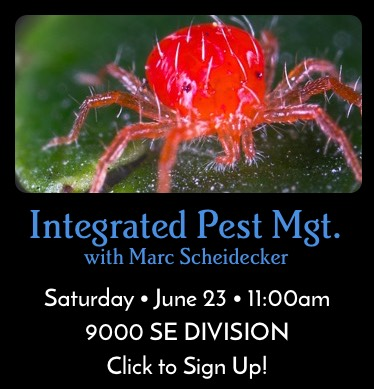
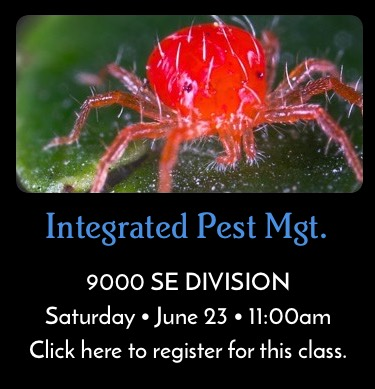
update june

diff --git a/partials/homepage/tasks.htm b/partials/homepage/tasks.htm
@@ -4,15 +4,33 @@
     <div class="row">
         <div class="col-md-12">
 			<div class="section-header">
-                <h2 class="brightonL center">Take advantage of our sales!</h2>
-                <p>See all the details on our <a href="/resources/sales//">Sales Page</a></p>
+                <h2 class="brightonL center">Take one of our classes this weekend!</h2>
+                <p>See all the details on our <a href="https://portlandnursery.com/events/current-classes/">Classes Page</a></p>
             </div>
         </div>
     </div>
     <div class="row">
 
+ <div class="col-md-4 col-sm-6">
+			 <div class="season-box">
+                <div class="season-thumb">
+                      <a href="https://portlandnursery.wufoo.com/forms/z17l0u9j06gbhf1/" onclick="window.open(this.href,  null, 'height=483, =680, toolbar=0, location=0, status=1, scrollbars=1, resizable=1'); return false"><img src="{{ 'assets/images/classboxes/mumclass2.jpg'|theme }}" alt="" /></a>
+                </div>
 
-        	 <div class="col-md-4 col-sm-6">
+                 <a href="https://portlandnursery.com/resources/sales/">
+	                 <div class="season-content">
+                    <div class="content-show">
+                    </div>
+                 </div>
+                 </a>
+
+                    <div class="content-hide">
+                       <p></p>
+                    </div>
+                </div>
+            </div><!-- col-md-4 col-sm-6 -->
+
+       <div class="col-md-4 col-sm-6">
 			 <div class="season-box">
                 <div class="season-thumb">
                       <a href="https://portlandnursery.wufoo.com/forms/z1jydgwe01cg4qo/" onclick="window.open(this.href,  null, 'height=483, =680, toolbar=0, location=0, status=1, scrollbars=1, resizable=1'); return false"><img src="{{ 'assets/images/classboxes/integratedpest.jpg'|theme }}" alt="" /></a>
@@ -31,30 +49,10 @@
                 </div>
             </div>
 
-
-	        <div class="col-md-4 col-sm-6">
-            <div class="season-box">
-                <div class="season-thumb">
-                      <a href="https://portlandnursery.com/resources/sales/"><img src="{{ 'assets/images/classboxes/ebstoneOrganics.jpg'|theme }}" alt="" /></a>
-                </div>
-
-                 <a href="https://portlandnursery.com/resources/sales/">
-	                 <div class="season-content">
-                    <div class="content-show">
-                    </div>
-                 </div>
-                 </a>
-
-                    <div class="content-hide">
-<!--                         <p></p> -->
-                    </div>
-                </div>
-            </div>
-
-        	 <div class="col-md-4 col-sm-6">
+        <div class="col-md-4 col-sm-6">
 			 <div class="season-box">
                 <div class="season-thumb">
-                      <a target="_blank" href="https://portlandnursery.com/docs/appletasting-recipes/steelheadpackets.pdf"><img src="{{ 'assets/images/marketing/gardentime.jpg'|theme }}" alt="" /></a>
+                      <a href="https://portlandnursery.wufoo.com/forms/z1w5s2a1msz7bu/" onclick="window.open(this.href,  null, 'height=483, =680, toolbar=0, location=0, status=1, scrollbars=1, resizable=1'); return false"><img src="{{ 'assets/images/classboxes/nutritionveg.jpg'|theme }}" alt="" /></a>
                 </div>
 
                 <a target="_blank" href="https://portlandnursery.com/docs/appletasting-recipes/steelheadpackets.pdf">

diff --git a/pages/container-gardens/june-designs.htm b/pages/container-gardens/june-designs.htm
@@ -19,6 +19,28 @@ meta_description = "June patio planting in Northwest gardens in Portland, Vancou
             <div class="col-md-12 left-inner">
                 <div class="row planttable">
 
+	                    <div class="col-sm-4">
+                        <figure><a href="https://portlandnursery.com/plants/container-gardens/pdfs/june2019.pdf" target="_blank"><img class="img-responsive" src="https://portlandnursery.com/plants/images/containers/images19a/image6.jpg" alt="Portland Nursery Container Design"></a></figure>
+
+                        <h2><a href="https://portlandnursery.com/plants/container-gardens/pdfs/june2019.pdf" target="_blank">Water-Wise Wonderland</a></h2>
+
+                        <ol>
+							<li><em>Achillea</em> ‘Moonshine’</li>
+
+							<li><em>Echeveria</em> ‘Black Prince’</li>
+
+							<li><em>Echeveria sanyatwe</em></li>
+
+							<li><em>Carex t.</em> ‘Cappuccino’</li>
+
+							<li><em>Vinca major</em> ‘Wojo’s Gem’</li>
+
+							<li><em>Gazania</em>  </li>
+					</ol>
+
+                        <p><a href="https://portlandnursery.com/plants/container-gardens/pdfs/june2019.pdf" target="_blank"><i class="fa fa-download" aria-hidden="true"></i>Download the Planting Recipe</a></p>
+                    </div>
+
                         <div class="col-sm-4">
                         <figure><a href="https://portlandnursery.com/plants/container-gardens/pdfs/june2018.pdf" target="_blank"><img class="img-responsive" src="https://portlandnursery.com/plants/images/containers/images18a/image6.jpg" alt="Portland Nursery Container Design"></a></figure>
 
@@ -39,6 +61,7 @@ meta_description = "June patio planting in Northwest gardens in Portland, Vancou
                         <p><a href="https://portlandnursery.com/plants/container-gardens/pdfs/june2018.pdf" target="_blank"><i class="fa fa-download" aria-hidden="true"></i>Download the Planting Recipe</a></p>
                     </div>
 
+<!--
                       <div class="col-sm-4 highlight">
                        <figure><a href="/container-gardens/thriller-filler-spiller/"><img class="img-responsive" src="{{ 'assets/images/container-gardens/thrillerpage.jpg'|theme }}" alt="Portland Nursery Container Design"></a></figure>
 
@@ -48,6 +71,7 @@ meta_description = "June patio planting in Northwest gardens in Portland, Vancou
 
                         <p><a href="/container-gardens/thriller-filler-spiller/">See our easy directions for creating a Thriller Spiller Filler Design!</a></p>
                     </div>
+-->
 
                     <div class="col-sm-4">
                         <figure><a href="https://portlandnursery.com/plants/container-gardens/pdfs/june2016.pdf" target="_blank"><img class="img-responsive" src="https://portlandnursery.com/plants/images/containers/images16a/image6.jpg" alt="Portland Nursery Container Design"></a></figure>

diff --git a/pages/container-gardens/index.htm b/pages/container-gardens/index.htm
@@ -58,30 +58,25 @@ is_hidden = 0
                             <div id="collapseOne1" class="panel-collapse collapse in">
                               <div class="panel-body">
 
-                       <figure><a href="https://portlandnursery.com/plants/container-gardens/pdfs/june2011.pdf" target="_blank"><img class="img-responsive" src="https://portlandnursery.com/plants/images/containers/images11a/image6.jpg" alt="Portland Nursery Container Design"></a></figure>
+                       <figure><a href="https://portlandnursery.com/plants/container-gardens/pdfs/june2019.pdf" target="_blank"><img class="img-responsive" src="https://portlandnursery.com/plants/images/containers/images19a/image6.jpg" alt="Portland Nursery Container Design"></a></figure>
 
-                        <h2><a href="https://portlandnursery.com/plants/container-gardens/pdfs/june2011.pdf" target="_blank">Cool Breeze</a></h2>
+                        <h2><a href="https://portlandnursery.com/plants/container-gardens/pdfs/june2019.pdf" target="_blank">Water-Wise Wonderland</a></h2>
 
                         <ol>
-                            <li><em>Elymus magellanicus,/</em></li>
+							<li><em>Achillea</em> ‘Moonshine’</li>
 
-                            <li><em>‘Blackie’ Sweet Potato Vine</em></li>
+							<li><em>Echeveria</em> ‘Black Prince’</li>
 
-                            <li><em><em>Oreganum</em> ‘Kent Beauty’</em></li>
+							<li><em>Echeveria sanyatwe</em></li>
 
-                            <li><em>Supertunia</em> ‘Indigo Charm’</li>
+							<li><em>Carex t.</em> ‘Cappuccino’</li>
 
-                            <li><em>Calibrachoa</em> ‘Superbells Blue’</li>
+							<li><em>Vinca major</em> ‘Wojo’s Gem’</li>
 
-                            <li>‘Sweet Caroline’ Sweet Potato Vine</li>
+							<li><em>Gazania</em>  </li>
+					</ol>
 
-                            <li><em>Acaena</em> 'Purpurea'</li>
-
-                            <li><em>Calibrachoa</em> ‘Celebration Indigo’</li>
-                        </ol>
-
-                        <p><a href="https://portlandnursery.com/plants/container-gardens/pdfs/june2011.pdf" target="_blank"><i class="fa fa-download" aria-hidden="true"></i>Download the Planting Recipe</a></p>
-
+                        <p><a href="https://portlandnursery.com/plants/container-gardens/pdfs/june2019.pdf" target="_blank"><i class="fa fa-download" aria-hidden="true"></i>Download the Planting Recipe</a></p>
 
                         <p>See all our designs for the month of <a href="/container-gardens/{% partial "resources/month" %}-designs/"><span class="capitalize">{% partial "resources/month" %}</span></a></p>
                     		</div>

diff --git a/partials/homepage/happenings.htm b/partials/homepage/happenings.htm
@@ -68,11 +68,11 @@
                     <div class="col-md-4 col-sm-6 wow fadeInUp" data-wow-duration="300ms" data-wow-delay="400ms">
                         <div class="media happening-box">
                             <div class="pull-left">
-                                <a href="/events/yearly-events#bonsai"><img class="happening-icon img-responsive" src="{{ 'assets/images/icons/flowerpot.png'|theme }}" alt="Portland Nursery Events" /></a>
+                                <a href="/events/yearly-events#bonsai"><img class="happening-icon img-responsive" src="{{ 'assets/images/icons/sunshine.png'|theme }}" alt="Portland Nursery Events" /></a>
                             </div>
                             <div class="media-body">
 <!--                                 <h3 class="media-heading"><a href="/container-gardens/">{% partial "/resources/month" %} Containers</a></h3> -->
- 										 <h3 class="media-heading"> <a target="_blank" href="/events/yearly-events#bonsai">Annual Bonsai Show!</a></h3>
+ 										 <h3 class="media-heading"> <a target="_blank" href="/events/yearly-events#june">Yearly Events!</a></h3>
 <!--                                 <p>Add a container using our monthly designs for <span class="cap">{% partial "/resources/month" %}</span>.</p> -->
                             </div>
                         </div>

diff --git a/partials/homepage/list-homepage.htm b/partials/homepage/list-homepage.htm
@@ -71,7 +71,7 @@
 
 				<div class="portfolio-item sun">
                     <div class="portfolio-item-inner">
-                         <a href="/container-gardens/" ><img class="img-responsive" src="{{ 'assets/images/homepage/may2019.jpg'|theme }}" alt="Portland Nursery Container Design"></a>
+                         <a href="/container-gardens/" ><img class="img-responsive" src="{{ 'assets/images/homepage/june2019.jpg'|theme }}" alt="Portland Nursery Container Design"></a>
 							<div class="portfolio-info">
                              <a href="/container-gardens/{% partial "/resources/month" %}-designs/" ><h3><span class="cap">{% partial "/resources/month" %}</span> Containers</h3><i class="fas fa-arrow-alt-circle-right"></i></a>
                         </div>

diff --git a/pages/resources/sales.htm b/pages/resources/sales.htm
@@ -21,9 +21,9 @@ is_hidden = 0
 
 	                <div class="col-md-12">
 
-<!-- 		                <h2>Come back later for new sales</h2> -->
+               <h2>Come back later for new sales</h2>
 
-					 <figure> <img class="img-responsive" alt="EB Stone Sale" src="https://portlandnursery.com/newsletter/images/sales/ebstone20192.jpg" style="margin: 0px;display: inline;"></figure>
+<!-- 					 <figure> <img class="img-responsive" alt="EB Stone Sale" src="https://portlandnursery.com/newsletter/images/sales/ebstone20192.jpg" style="margin: 0px;display: inline;"></figure> -->
 
 	                 </div>
                 </div>

diff --git a/partials/homepage/socialblock.htm b/partials/homepage/socialblock.htm
@@ -5,7 +5,7 @@
                 <div class="col-md-4 col-sm-6 wow fadeInDown">
                     <div class="specials text-left">
 <!--                         <h2 class="brightonL center">Specials</h2> -->
-                    <a href="/events/yearly-events#bonsai"><img class="img-responsive" src="{{ 'assets/images/marketing/bonsaishow2019.png'|theme }}" alt="container" /></a>
+                    <a href="https://portlandnursery.com/container-gardens/"><img class="img-responsive" src="{{ 'assets/images/marketing/june2019.jpg'|theme }}" alt="container" /></a>
 
                     </div>
 

diff --git a/pages/events/yearly-events.htm b/pages/events/yearly-events.htm
@@ -125,7 +125,7 @@ is_hidden = 0
 
                 <h4>9000 SE DIVISION &bull; Sunday &bull; June 16 &bull; 10:00-4:00pm</h4>
                 <hr>
-                                <h3>Chrysanthemum Society Sale</h3>
+                                <h3 id="june">Chrysanthemum Society Sale</h3>
 
                 <figure><img class="img-responsive" src="{{ 'assets/images/events/mumshow2.jpg'|theme }}" alt="classes"></figure>
 
